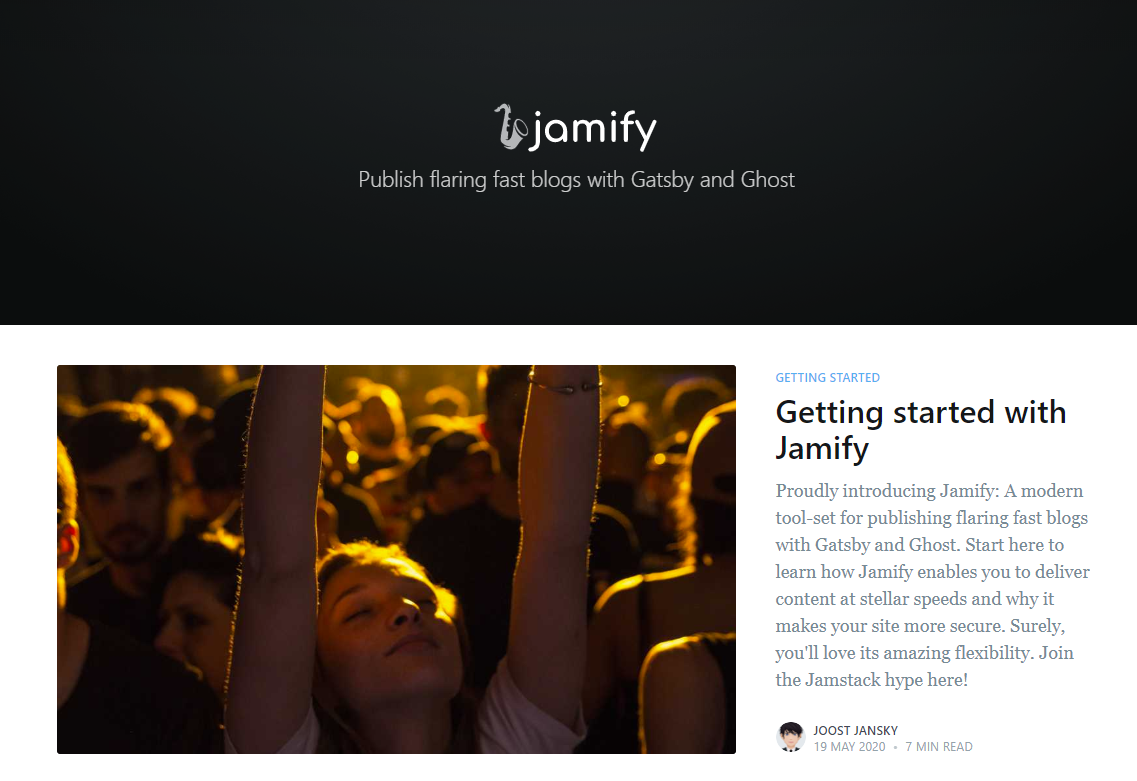
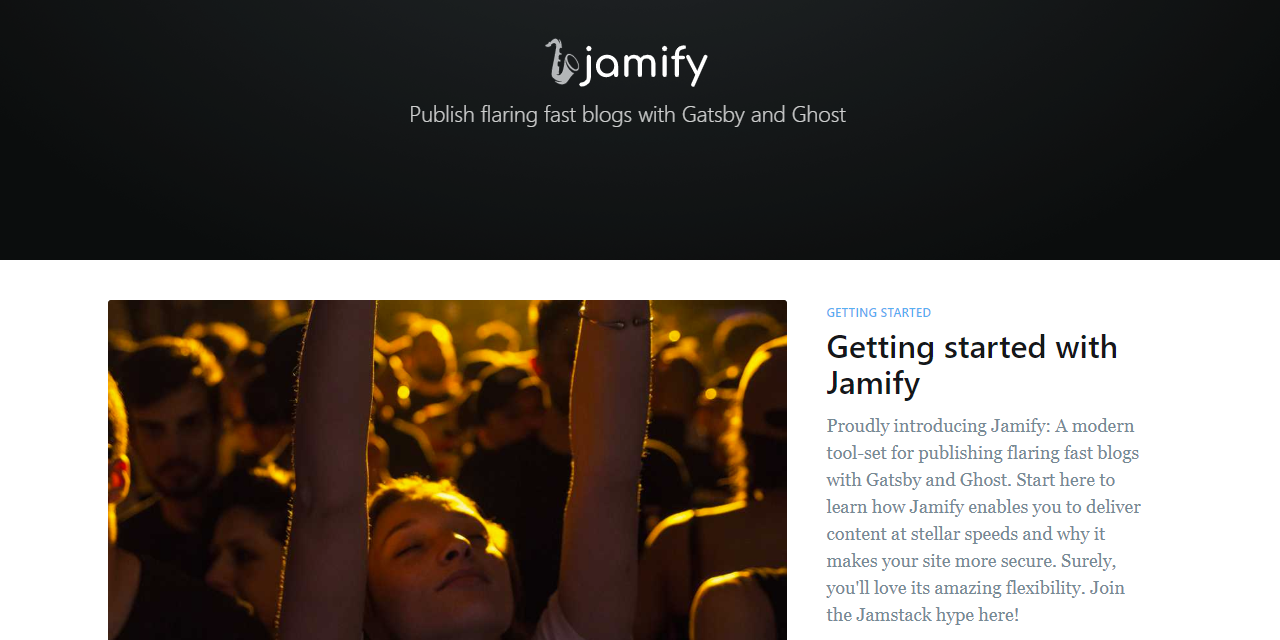
optimize size

Changed region(s): [[0.0308, 0.4688, 0.9543, 1.0], [0.3078, 0.0625, 0.708, 0.25], [0.0, 0.4062, 1.0, 0.4375]]

diff --git a/packages/gatsby-theme-try-ghost/src/templates/index.js b/packages/gatsby-theme-try-ghost/src/templates/index.js
@@ -66,7 +66,7 @@ export const pageQuery = graphql`
     }
     file(relativePath: {eq: "site-meta.png"}) {
         childImageSharp {
-            fluid(maxWidth: 1040) {
+            fluid(maxWidth: 1280) {
                 ...GatsbyImageSharpFluid
             }
         }
